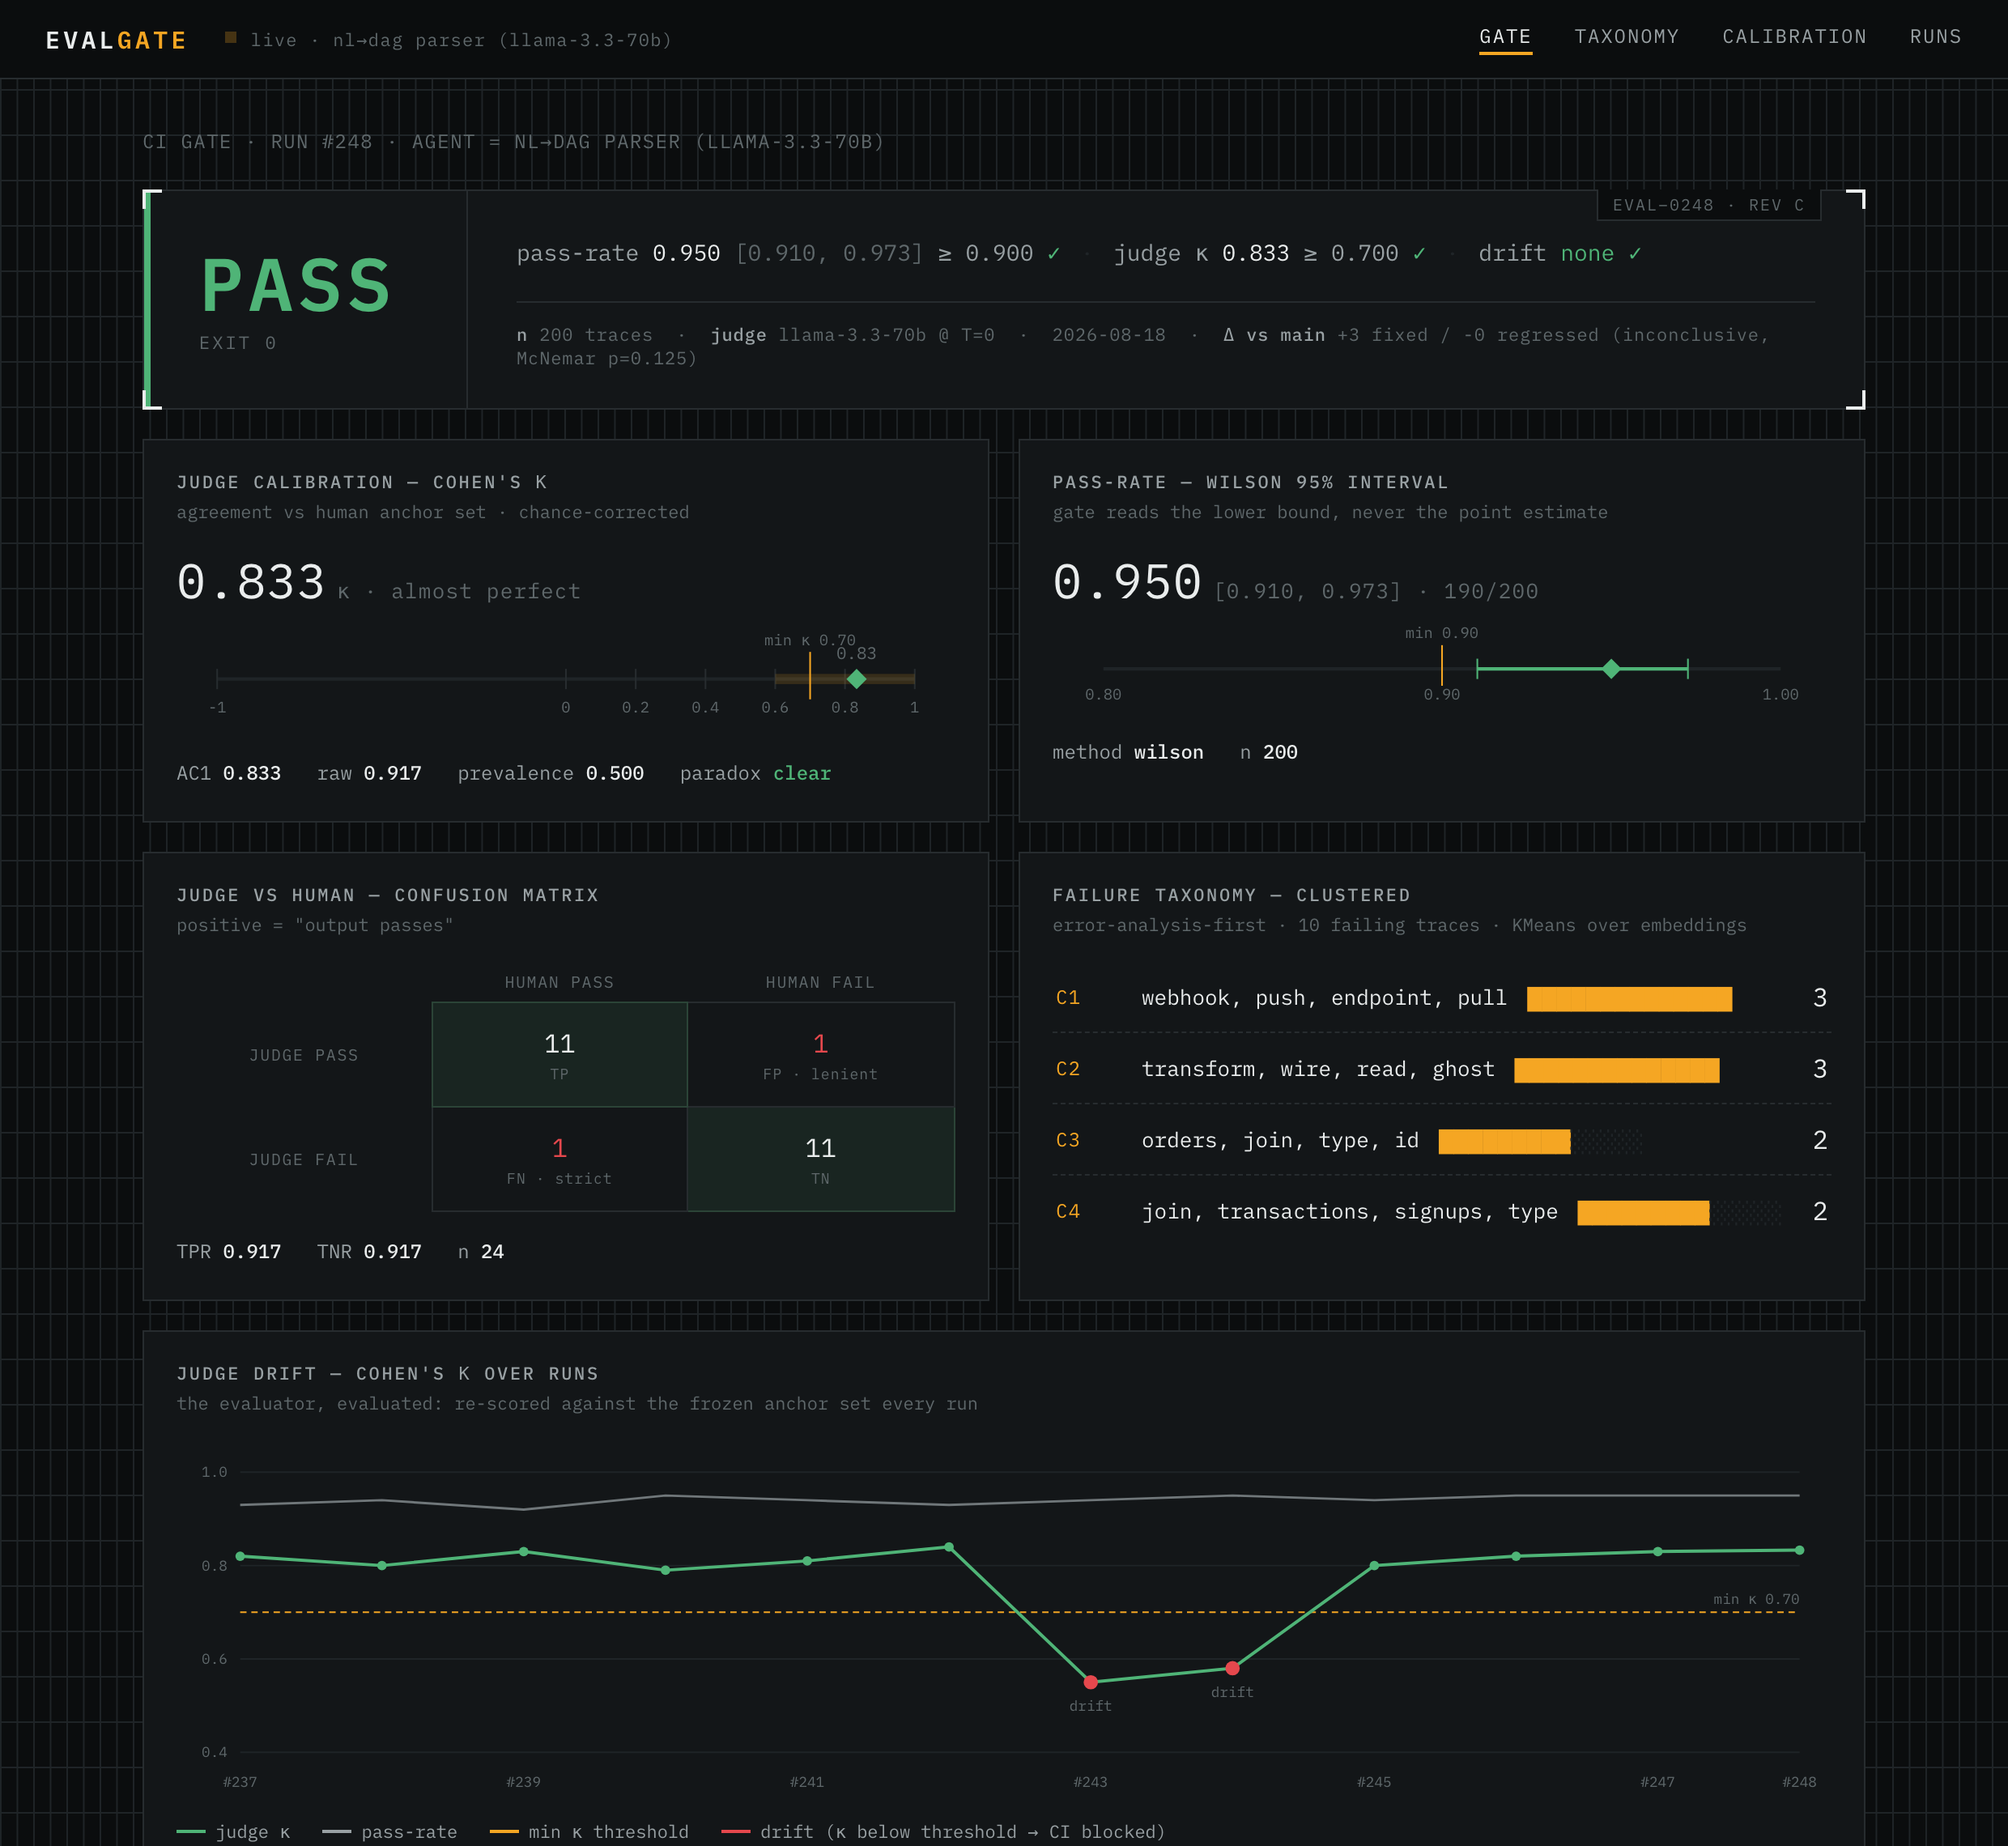
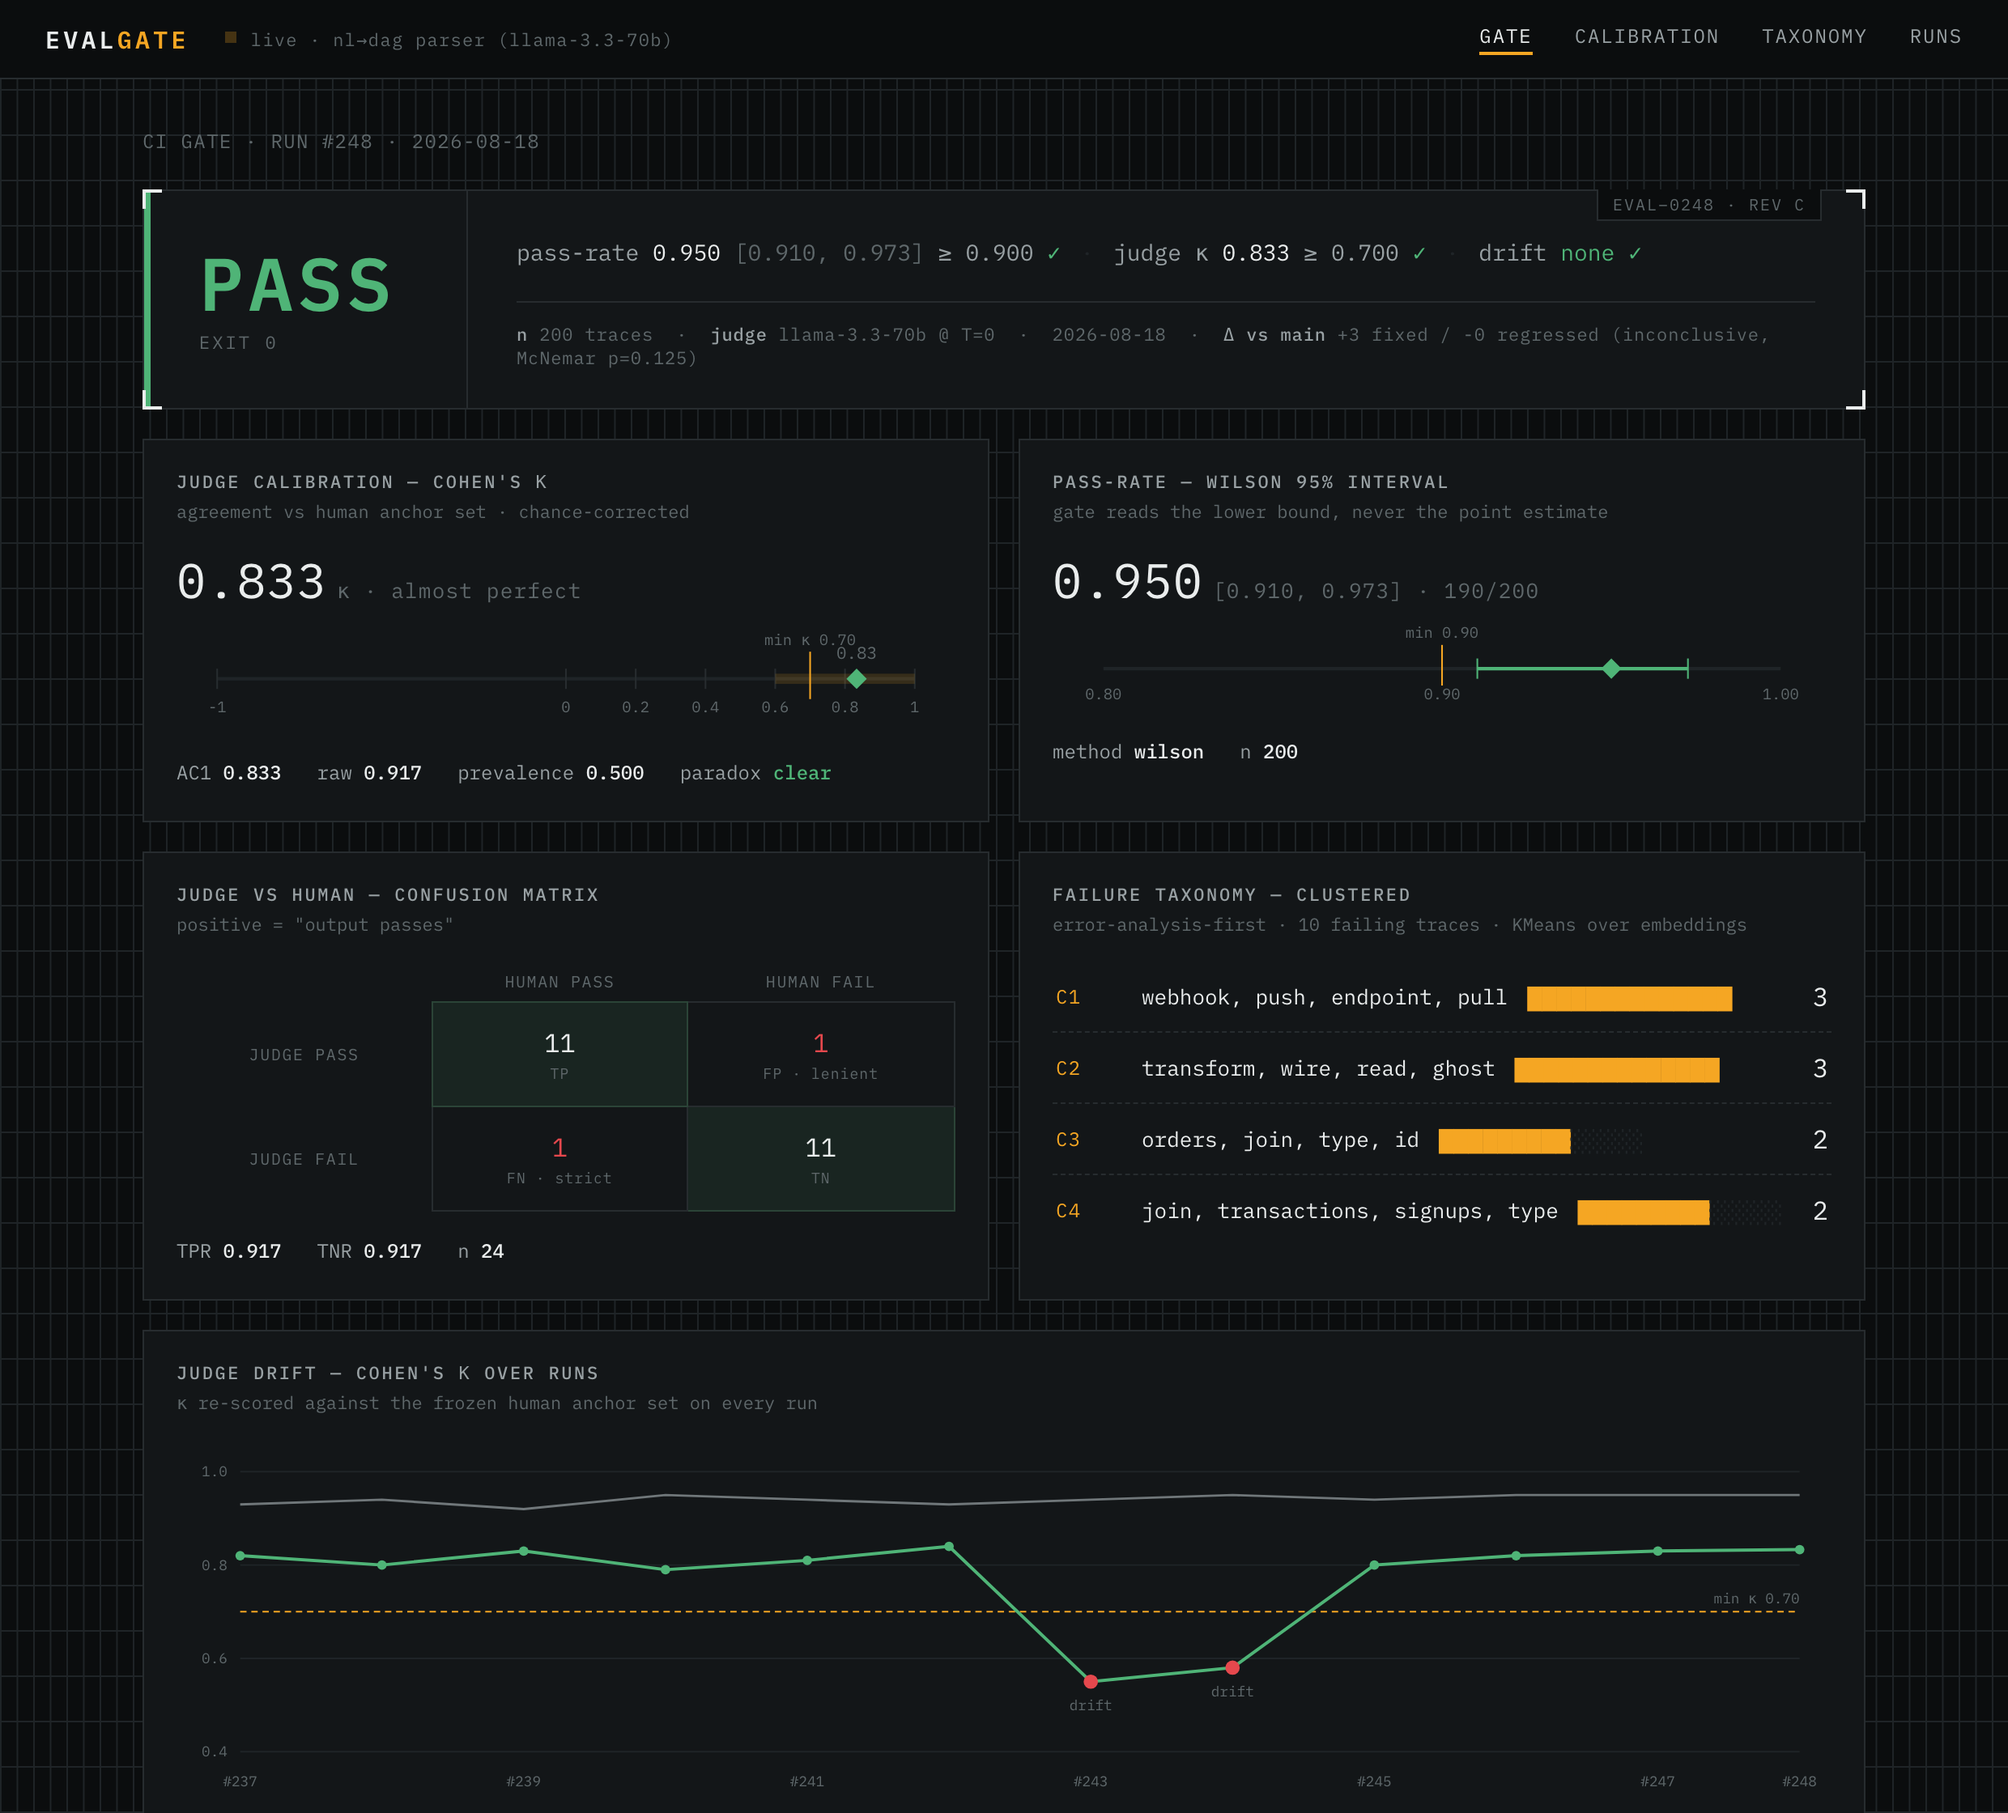
release: PyPI packaging (evalgate-ci) + dashboard polish + usage docs (#5)
- pyproject: PyPI-ready metadata (name evalgate-ci — 'evalgate' is taken on PyPI;
  the command + import package stay `evalgate`), classifiers, keywords, project URLs.
- .github/workflows/release.yml: publish to PyPI on GitHub Release via Trusted
  Publishing (OIDC, no stored token).
- README: install via `pip install evalgate-ci`, plus a consolidated Usage section
  (CLI / GitHub Action / pytest / library).
- dashboard: trim marketing/editorial copy (drop the "every artifact…" footer line and
  the "the evaluator, evaluated" slogan), de-duplicate the run header, and make the nav
  tabs real (scroll to sections) instead of decorative.

Wheel builds clean, twine check passes, and a fresh-venv install runs `evalgate demo`
to PASS with no source checkout. 94 tests, ruff clean.

diff --git a/dashboard/index.html b/dashboard/index.html
@@ -13,7 +13,12 @@
 <header>
   <span class="wm">EVAL<b>GATE</b></span>
   <span class="src"><span class="dot"></span><span id="agent">loading…</span></span>
-  <nav><a class="active">Gate</a><a>Taxonomy</a><a>Calibration</a><a>Runs</a></nav>
+  <nav>
+    <a class="active" href="#app">Gate</a>
+    <a href="#sec-calibration">Calibration</a>
+    <a href="#sec-taxonomy">Taxonomy</a>
+    <a href="#sec-runs">Runs</a>
+  </nav>
 </header>
 
 <main id="app">
@@ -30,7 +35,7 @@
   </section>
 
   <div class="row">
-    <div class="card">
+    <div class="card" id="sec-calibration">
       <h3>Judge calibration — Cohen's κ</h3>
       <div class="cap">agreement vs human anchor set · chance-corrected</div>
       <div class="reading" id="kappa-reading"></div>
@@ -53,7 +58,7 @@
       <div id="cm"></div>
       <div class="rates" id="cm-rates"></div>
     </div>
-    <div class="card">
+    <div class="card" id="sec-taxonomy">
       <h3>Failure taxonomy — clustered</h3>
       <div class="cap" id="tax-cap">error-analysis-first · KMeans over embeddings</div>
       <div class="taxlist" id="taxlist"></div>
@@ -61,9 +66,9 @@
   </div>
 
   <div class="row">
-    <div class="card full">
+    <div class="card full" id="sec-runs">
       <h3>Judge drift — Cohen's κ over runs</h3>
-      <div class="cap">the evaluator, evaluated: re-scored against the frozen anchor set every run</div>
+      <div class="cap">κ re-scored against the frozen human anchor set on every run</div>
       <div id="timeline"></div>
       <div class="legend">
         <span><span class="sw" style="background:#4FB477"></span>judge κ</span>
@@ -75,9 +80,7 @@
   </div>
 
   <div class="foot">
-    <span>$ evalgate gate --min-pass-rate 0.90 --min-kappa 0.70</span>
-    <span class="amber" id="foot-result"></span>
-    <span style="margin-left:auto">every artifact — anchors · taxonomy · judges · thresholds — lives in your repo</span>
+    <span id="foot-cmd">$ evalgate gate --min-pass-rate 0.90 --min-kappa 0.70</span>
   </div>
 </main>
 

diff --git a/dashboard/app.js b/dashboard/app.js
@@ -106,7 +106,7 @@ function render(data) {
   const g = data.gate, cal = g.calibration, pr = g.pass_rate, d = g.delta;
   const passed = g.passed;
   el("agent").textContent = `live · ${data.agent}`;
-  el("lede").textContent = `CI gate · run #${data.run} · agent = ${data.agent}`;
+  el("lede").textContent = `CI gate · run #${data.run} · ${data.date}`;
 
   // verdict
   const v = el("verdict"); v.hidden = false; v.classList.toggle("fail", !passed);
@@ -153,7 +153,6 @@ function render(data) {
   // timeline
   el("timeline").innerHTML = timeline(data.history, data.min_kappa);
 
-  el("foot-result").textContent = `→ RESULT: ${passed ? "PASS · exit 0" : "FAIL · exit 1"}`;
   document.title = `EvalGate — ${passed ? "PASS" : "FAIL"}`;
 }
 

diff --git a/dashboard/styles.css b/dashboard/styles.css
@@ -10,6 +10,8 @@
   --sans: 'Space Grotesk', system-ui, sans-serif;
 }
 * { box-sizing: border-box; }
+html { scroll-behavior: smooth; }
+.card, .verdict { scroll-margin-top: 72px; }
 html, body {
   margin: 0; background: var(--bg-app); color: var(--hi); font-family: var(--sans);
   -webkit-font-smoothing: antialiased; font-feature-settings: "tnum" 1;

diff --git a/README.md b/README.md
@@ -84,7 +84,7 @@ flowchart LR
 ## Quickstart
 
 ```bash
-pip install -e ".[dev]"      # or: make install
+pip install evalgate-ci      # the PyPI name; the command + import stay `evalgate`
 evalgate demo                # runs the whole pipeline offline — no key, no data needed
 ```
 
@@ -140,6 +140,45 @@ McNemar test says the change is a significant regression, **or** when the judge'
 | **Pass-rate** | Wilson 95% CI *lower bound* < `min_pass_rate` | A lucky small sample can't sneak past the gate |
 | **Version delta** | McNemar paired test flags a significant regression vs baseline | The two runs are paired (same inputs) — compare correctly |
 | **Judge drift** | Cohen's κ vs the human anchor set < `min_judge_kappa` | A judge that no longer matches humans can't be trusted to grade |
+
+## Usage
+
+Four surfaces — pick the one that fits your stack.
+
+**CLI**
+```bash
+evalgate demo                                   # offline reference run (no key, no data)
+evalgate gate --traces traces.jsonl \           # gate your own agent → exit 0 / 1
+  --anchors anchors.jsonl --min-pass-rate 0.9 --min-kappa 0.7 --badge badge.json
+evalgate analyze  --traces traces.jsonl         # cluster failures into a taxonomy
+evalgate calibrate --anchors anchors.jsonl      # judge-vs-human agreement report
+evalgate report --out dashboard/report.json     # build the dashboard payload
+```
+
+**GitHub Action** — gate every PR (posts a sticky comment, fails the check):
+```yaml
+- uses: puneethkotha/evalgate@main
+  with:
+    traces: traces.jsonl
+    anchors: anchors.jsonl
+    min-pass-rate: "0.9"
+    min-kappa: "0.7"
+```
+
+**pytest** — eval as a unit test:
+```python
+from evalgate.pytest_plugin import assert_gate
+
+def test_agent_quality(agent_passes, calibration):
+    assert_gate(agent_passes, min_pass_rate=0.9, calibration=calibration)
+```
+
+**Library** — compose it yourself: `evalgate.evaluators.LLMJudge`,
+`evalgate.calibration.calibrate_judge`, `evalgate.gate.evaluate_gate`.
+
+Inputs are JSONL of `{"input", "output", "status"}` (or OpenTelemetry GenAI spans via
+`evalgate.otel`). Set `GROQ_API_KEY` (free tier) to use the real LLM judge; without it,
+code-check and status-based gating still run offline.
 
 ## What's inside
 
